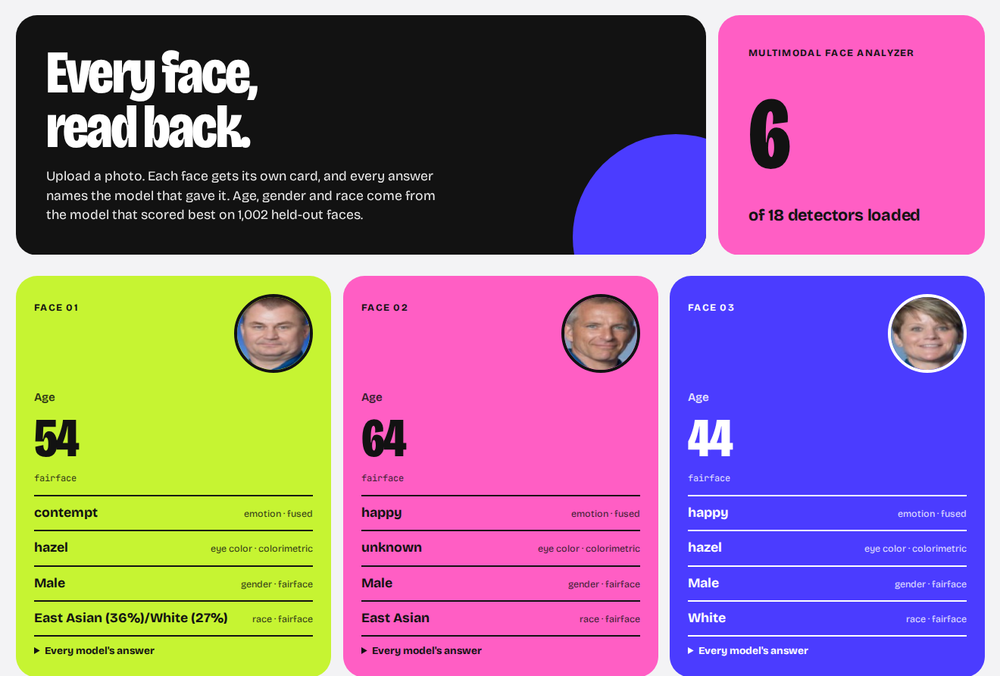
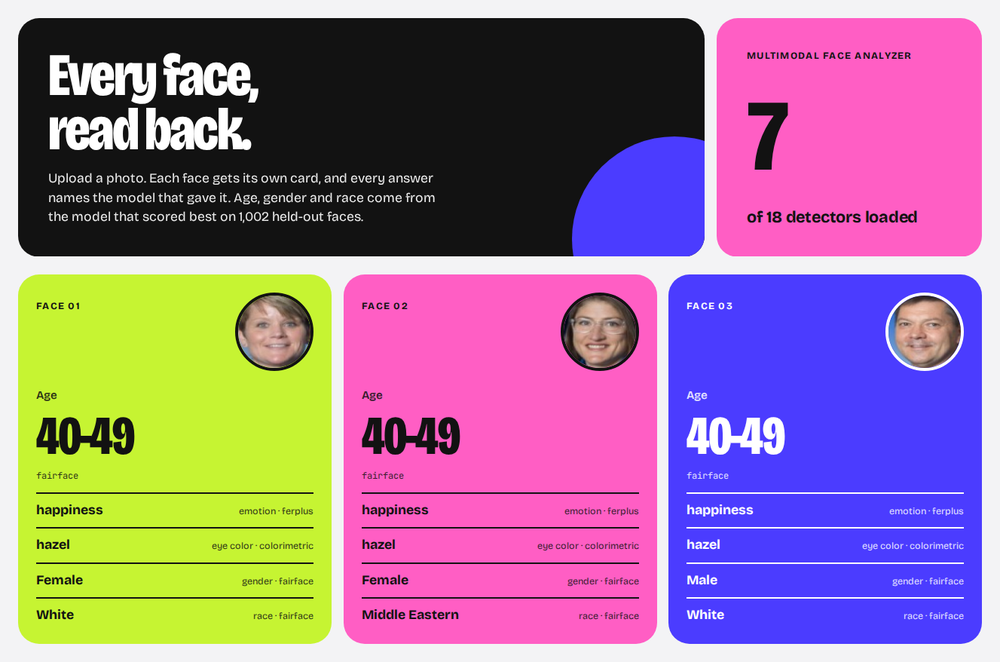
docs: retake the hero and theme screenshots from the live demo

diff --git a/README.md b/README.md
@@ -12,7 +12,7 @@ detectors, and held-out-tested ways of combining interchangeable backends.
 each face's age, gender, race, emotion and eye color. It runs a reduced, CPU-only model set
 ([docs/deploy.md](docs/deploy.md)) and may take a minute to wake up.
 
-![The public demo on a NASA crew portrait: six faces boxed and numbered, with the readouts for faces 1 and 2](docs/media/hero.jpg)
+![The public demo on a NASA crew portrait: six faces boxed and numbered, and the colour cards for faces 1 and 2](docs/media/hero.jpg)
 
 <!-- DEMO: record 5-10s of LIVE mode (age/gender/emotion/landmarks on, change expression once),
      export ≤5 MB, ~800px wide → docs/media/demo.gif -->
